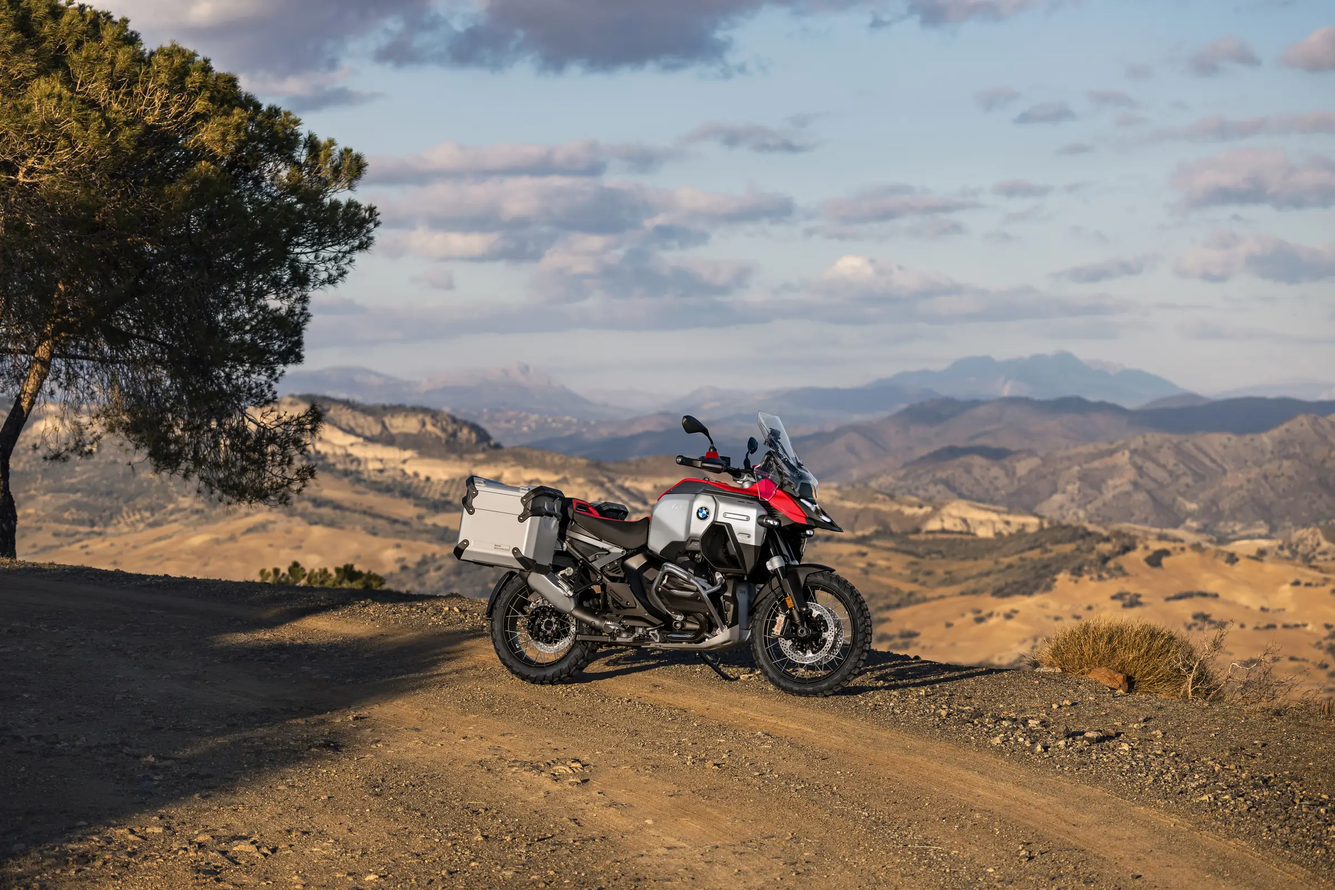
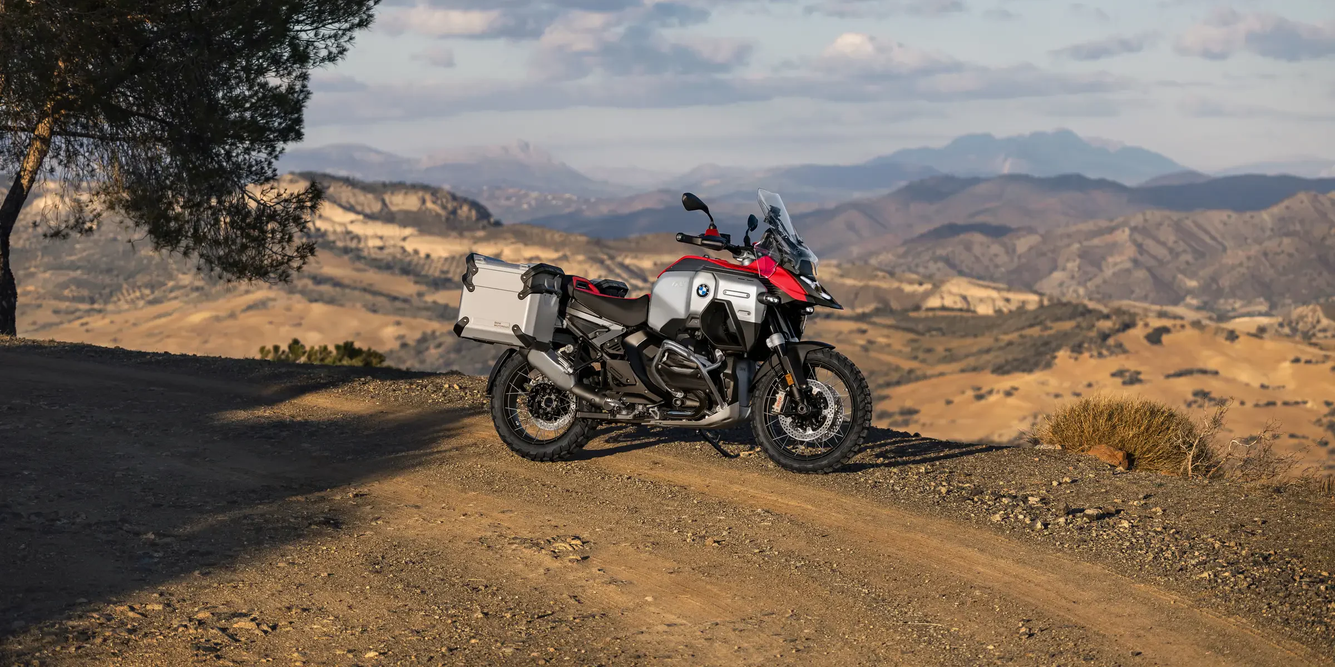
feat(portada): lamina de plano sin cotas, foto BMW reencuadrada y frases nuevas
- Se retiran de la portada el rotulo "Fig. 01 — R 1250 GS Adventure" y las dos
  cotas (largo 2.270 mm y alto 1.460 mm). La reticula y el color ya cuentan que
  es un despiece tecnico, sin medidas ni nombrar un modelo concreto.
- La foto de la BMW R 1300 GS Adventure se recorta de origen a 2:1 quitandole
  cielo, que es lo que sobraba: a 3:2 el recorte de object-cover cortaba las
  ruedas. En escritorio el foco baja al 60% para que aguante tambien en
  pantallas anchas y bajas — comprobado a 2.56, 3.69 y 5.63 de relacion. En
  movil, donde la caja es vertical, el foco se corre a la derecha, que es donde
  esta la moto.
- Frases nuevas elegidas por el cliente: "Tu proxima carretera empieza aqui" en
  la BMW y "Sin excusas" en la Triumph.

diff --git a/src/components/BlueprintReveal.tsx b/src/components/BlueprintReveal.tsx
@@ -323,38 +323,10 @@ export default function BlueprintReveal() {
             />
           </svg>
 
-          {/* Cotas de plano (datos reales del GS Adventure): entran solas al
-              final del dibujo (qb-late-fade) y mueren cuando llega la moto */}
-          <div
-            aria-hidden
-            style={{ opacity: fade(0.16, 0.28) }}
-            className="qb-late-fade absolute inset-0"
-          >
-            {/* Cota DENTRO del escenario (franja libre bajo la silueta, cuyas
-                ruedas llegan al ~90% de alto): así no roba ni un píxel de
-                altura a la moto ni pisa el eslogan que ahora solapa el borde
-                inferior de la caja */}
-            <div className="absolute bottom-8 left-[4%] right-[4%] border-t border-white/40" />
-            <div className="absolute bottom-6 left-[4%] h-2 border-l border-white/40" />
-            <div className="absolute bottom-6 right-[4%] h-2 border-r border-white/40" />
-            <p className="absolute bottom-9 left-1/2 -translate-x-1/2 font-mono text-[10px] tracking-[0.25em] text-white/50">
-              2.270 mm
-            </p>
-            <div className="absolute -right-6 top-[6%] bottom-[12%] border-r border-white/40 max-sm:hidden" />
-            <p className="absolute -right-11 top-1/2 -translate-y-1/2 rotate-90 font-mono text-[10px] tracking-[0.25em] text-white/50 max-sm:hidden">
-              1.460 mm
-            </p>
-          </div>
-
-          {/* Anotaciones de la fase plano */}
-          {/* Dentro del escenario (esquina sup. izq.): arriba chocaba con el
-              título ahora que la moto ocupa todo el alto disponible */}
-          <p
-            style={{ opacity: fade(0.16, 0.28) }}
-            className="qb-late-fade absolute top-2 left-2 font-mono text-[10px] tracking-[0.25em] text-white/50 uppercase"
-          >
-            Fig. 01 — R 1250 GS Adventure
-          </p>
+          {/* Sin cotas ni rótulo de figura: la lámina se lee mejor con la
+              silueta sola. La retícula y el color del plano ya cuentan que
+              esto es un despiece técnico, sin necesidad de medidas ni de
+              nombrar un modelo concreto. */}
 
           {/* La moto real se materializa sobre la silueta en 0.18–0.32 y
               asienta hasta 0.45. --bike-t es el progreso local. */}

diff --git a/src/app/page.tsx b/src/app/page.tsx
@@ -84,19 +84,26 @@ export default function Home() {
 
       {/* Lifestyle a sangre #1 — BMW R 1300 GS Adventure en paisaje de montaña
           (foto de prensa oficial, alta resolución). Intercala marca con el
-          bloque Triumph más abajo. */}
+          bloque Triumph más abajo. La foto va recortada de origen a 2:1
+          quitándole cielo: a 3:2 el recorte de object-cover se comía las
+          ruedas. En móvil la caja es vertical, así que el foco se corre a la
+          derecha, donde está la moto. */}
       <section className="relative h-[65vh] overflow-hidden">
         <Image
           src={withBasePath("/images/lifestyle/bmw-r1300-gsa-scenic.webp")}
           alt="BMW R 1300 GS Adventure sobre un mirador de montaña al atardecer"
           fill
           sizes="100vw"
-          className="object-cover"
+          /* En escritorio el foco se baja al 60%: la caja es muy apaisada
+             (65vh) y con el foco centrado, en pantallas anchas y bajas el
+             recorte volvía a comerse las ruedas. Bajarlo sacrifica cielo, que
+             es justo lo que sobra. */
+          className="object-cover object-[62%_50%] sm:object-[50%_60%]"
         />
         <div className="absolute inset-0 bg-gradient-to-t from-black/50 via-transparent to-transparent" />
         <Reveal className="absolute inset-x-0 bottom-0 mx-auto max-w-7xl px-6 pb-14">
           <p className="max-w-md font-display text-3xl leading-snug tracking-wide text-white uppercase sm:text-4xl">
-            Ideal para todo terreno
+            Tu próxima carretera empieza aquí
           </p>
         </Reveal>
       </section>
@@ -208,7 +215,7 @@ export default function Home() {
         <div className="absolute inset-0 bg-gradient-to-t from-black/50 via-transparent to-transparent" />
         <Reveal className="absolute inset-x-0 bottom-0 mx-auto max-w-7xl px-6 pb-14">
           <p className="max-w-md font-display text-3xl leading-snug tracking-wide text-white uppercase sm:text-4xl">
-            El próximo destino lo eliges tú
+            Sin excusas
           </p>
         </Reveal>
       </section>
